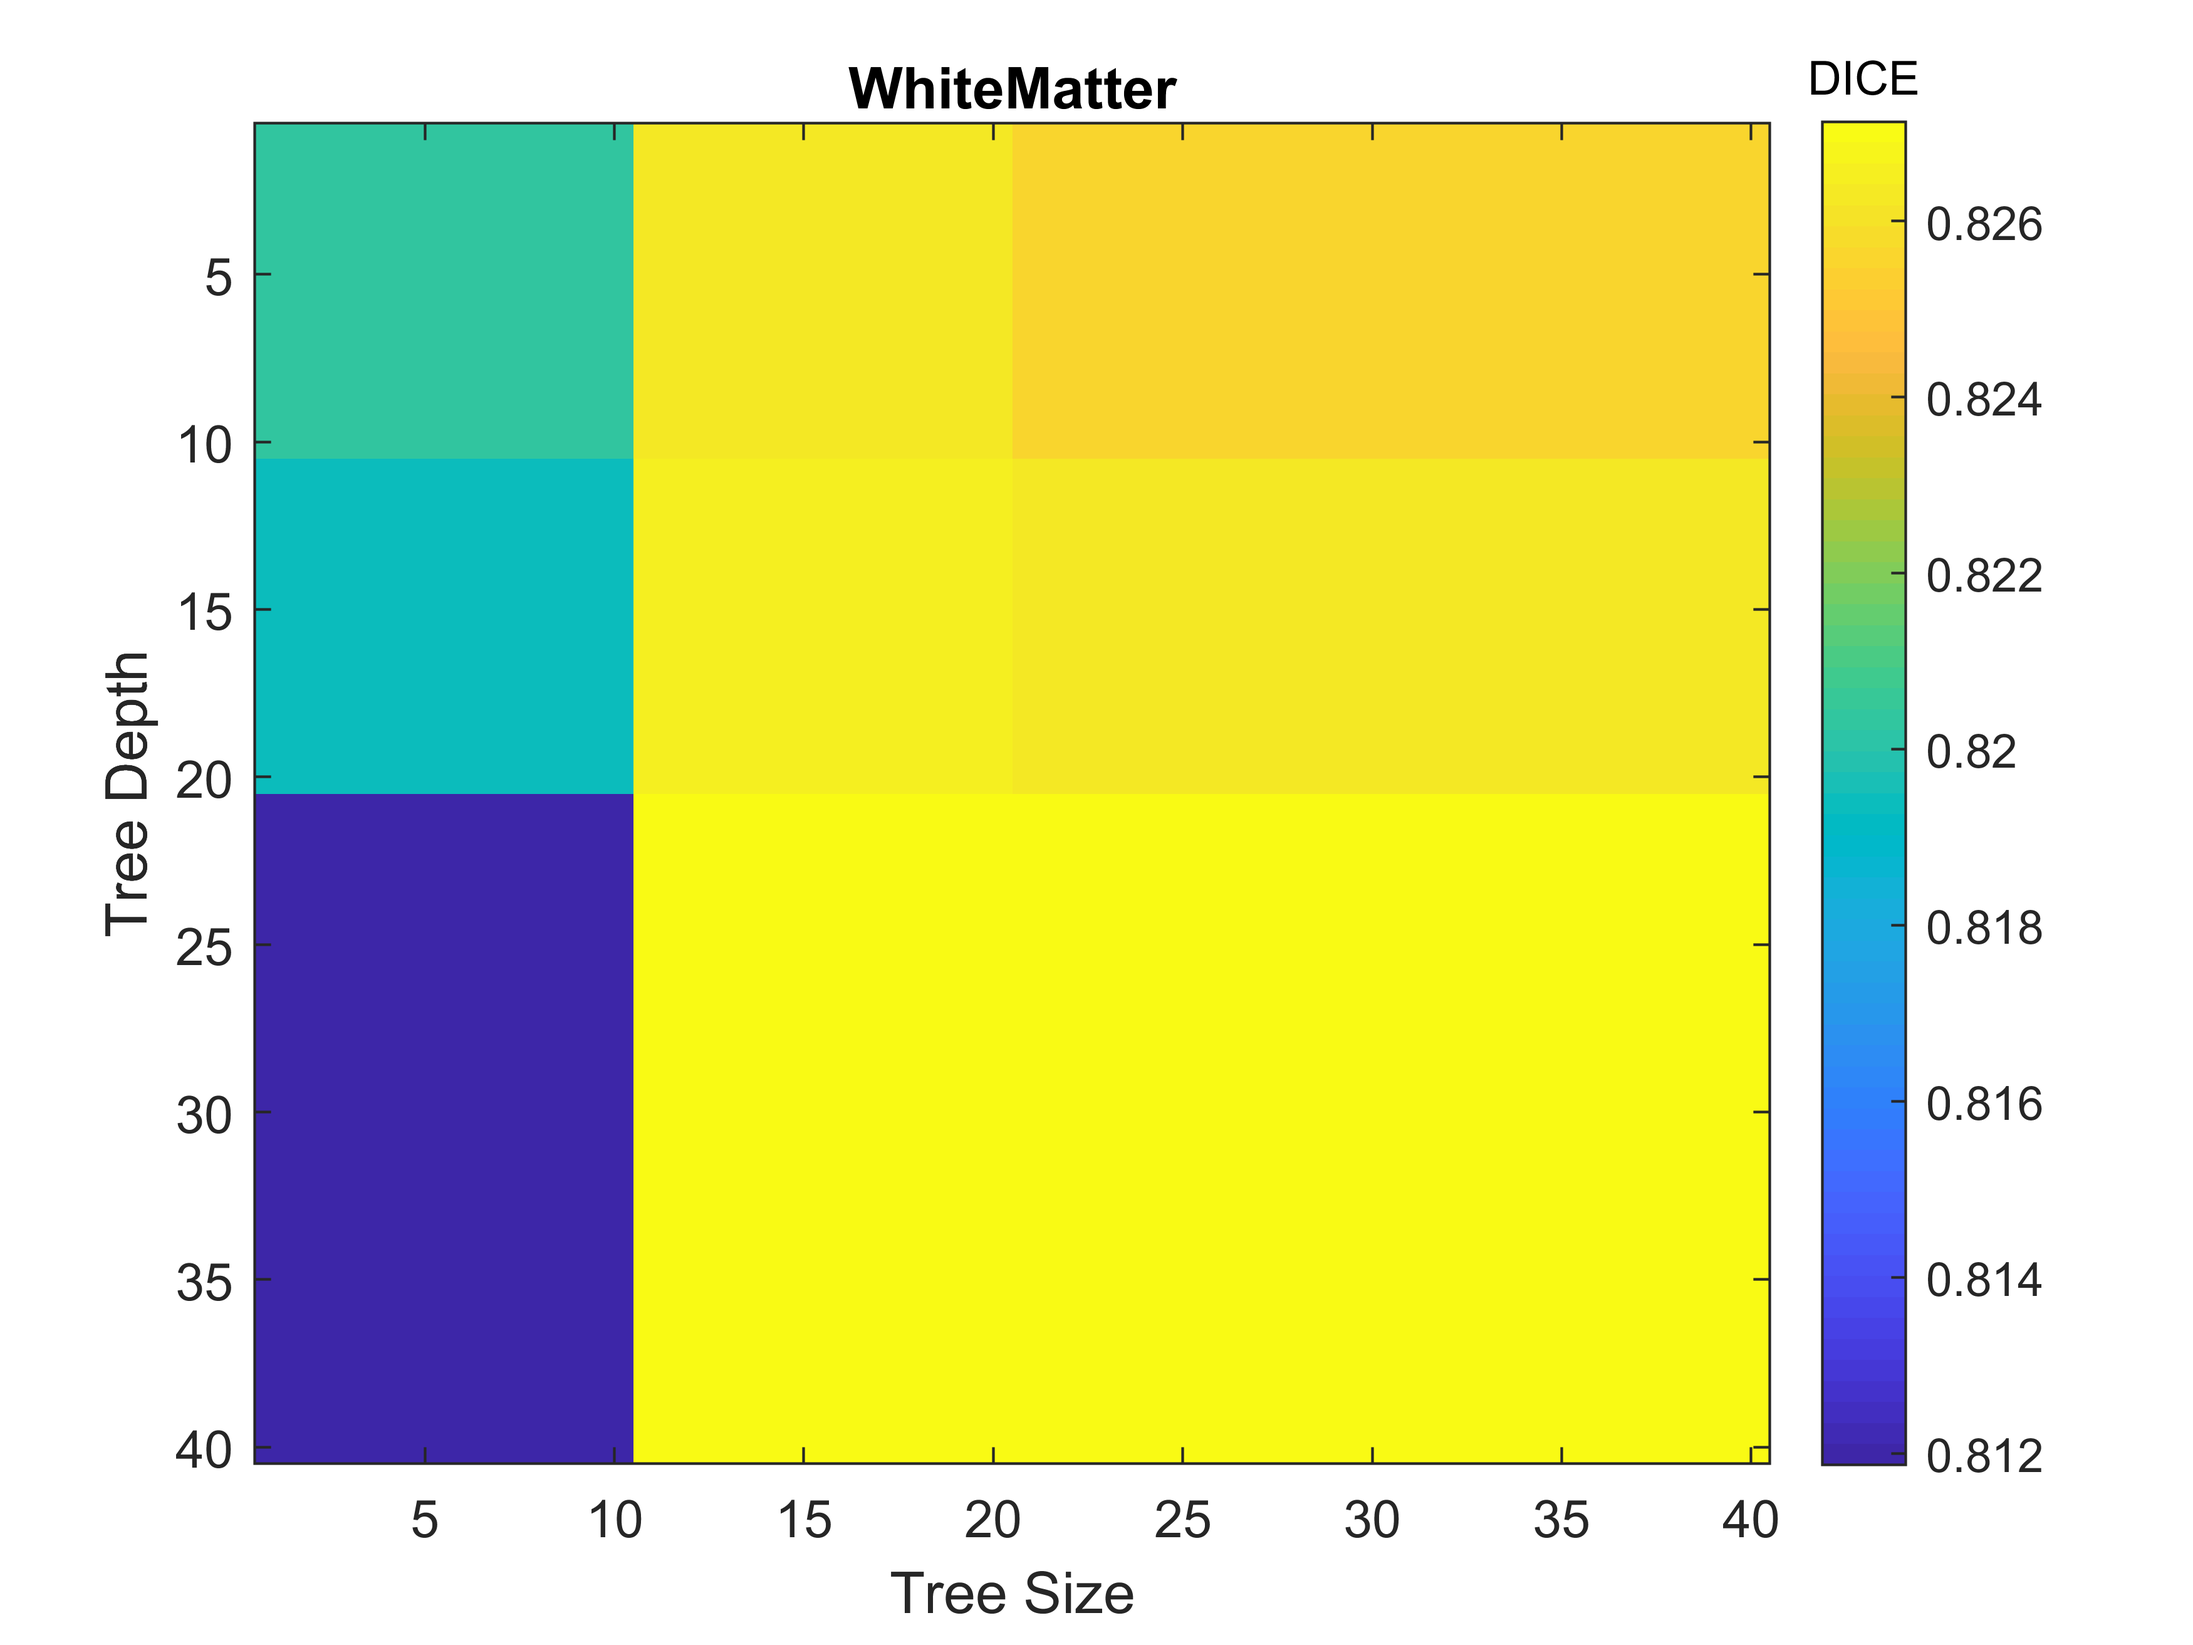
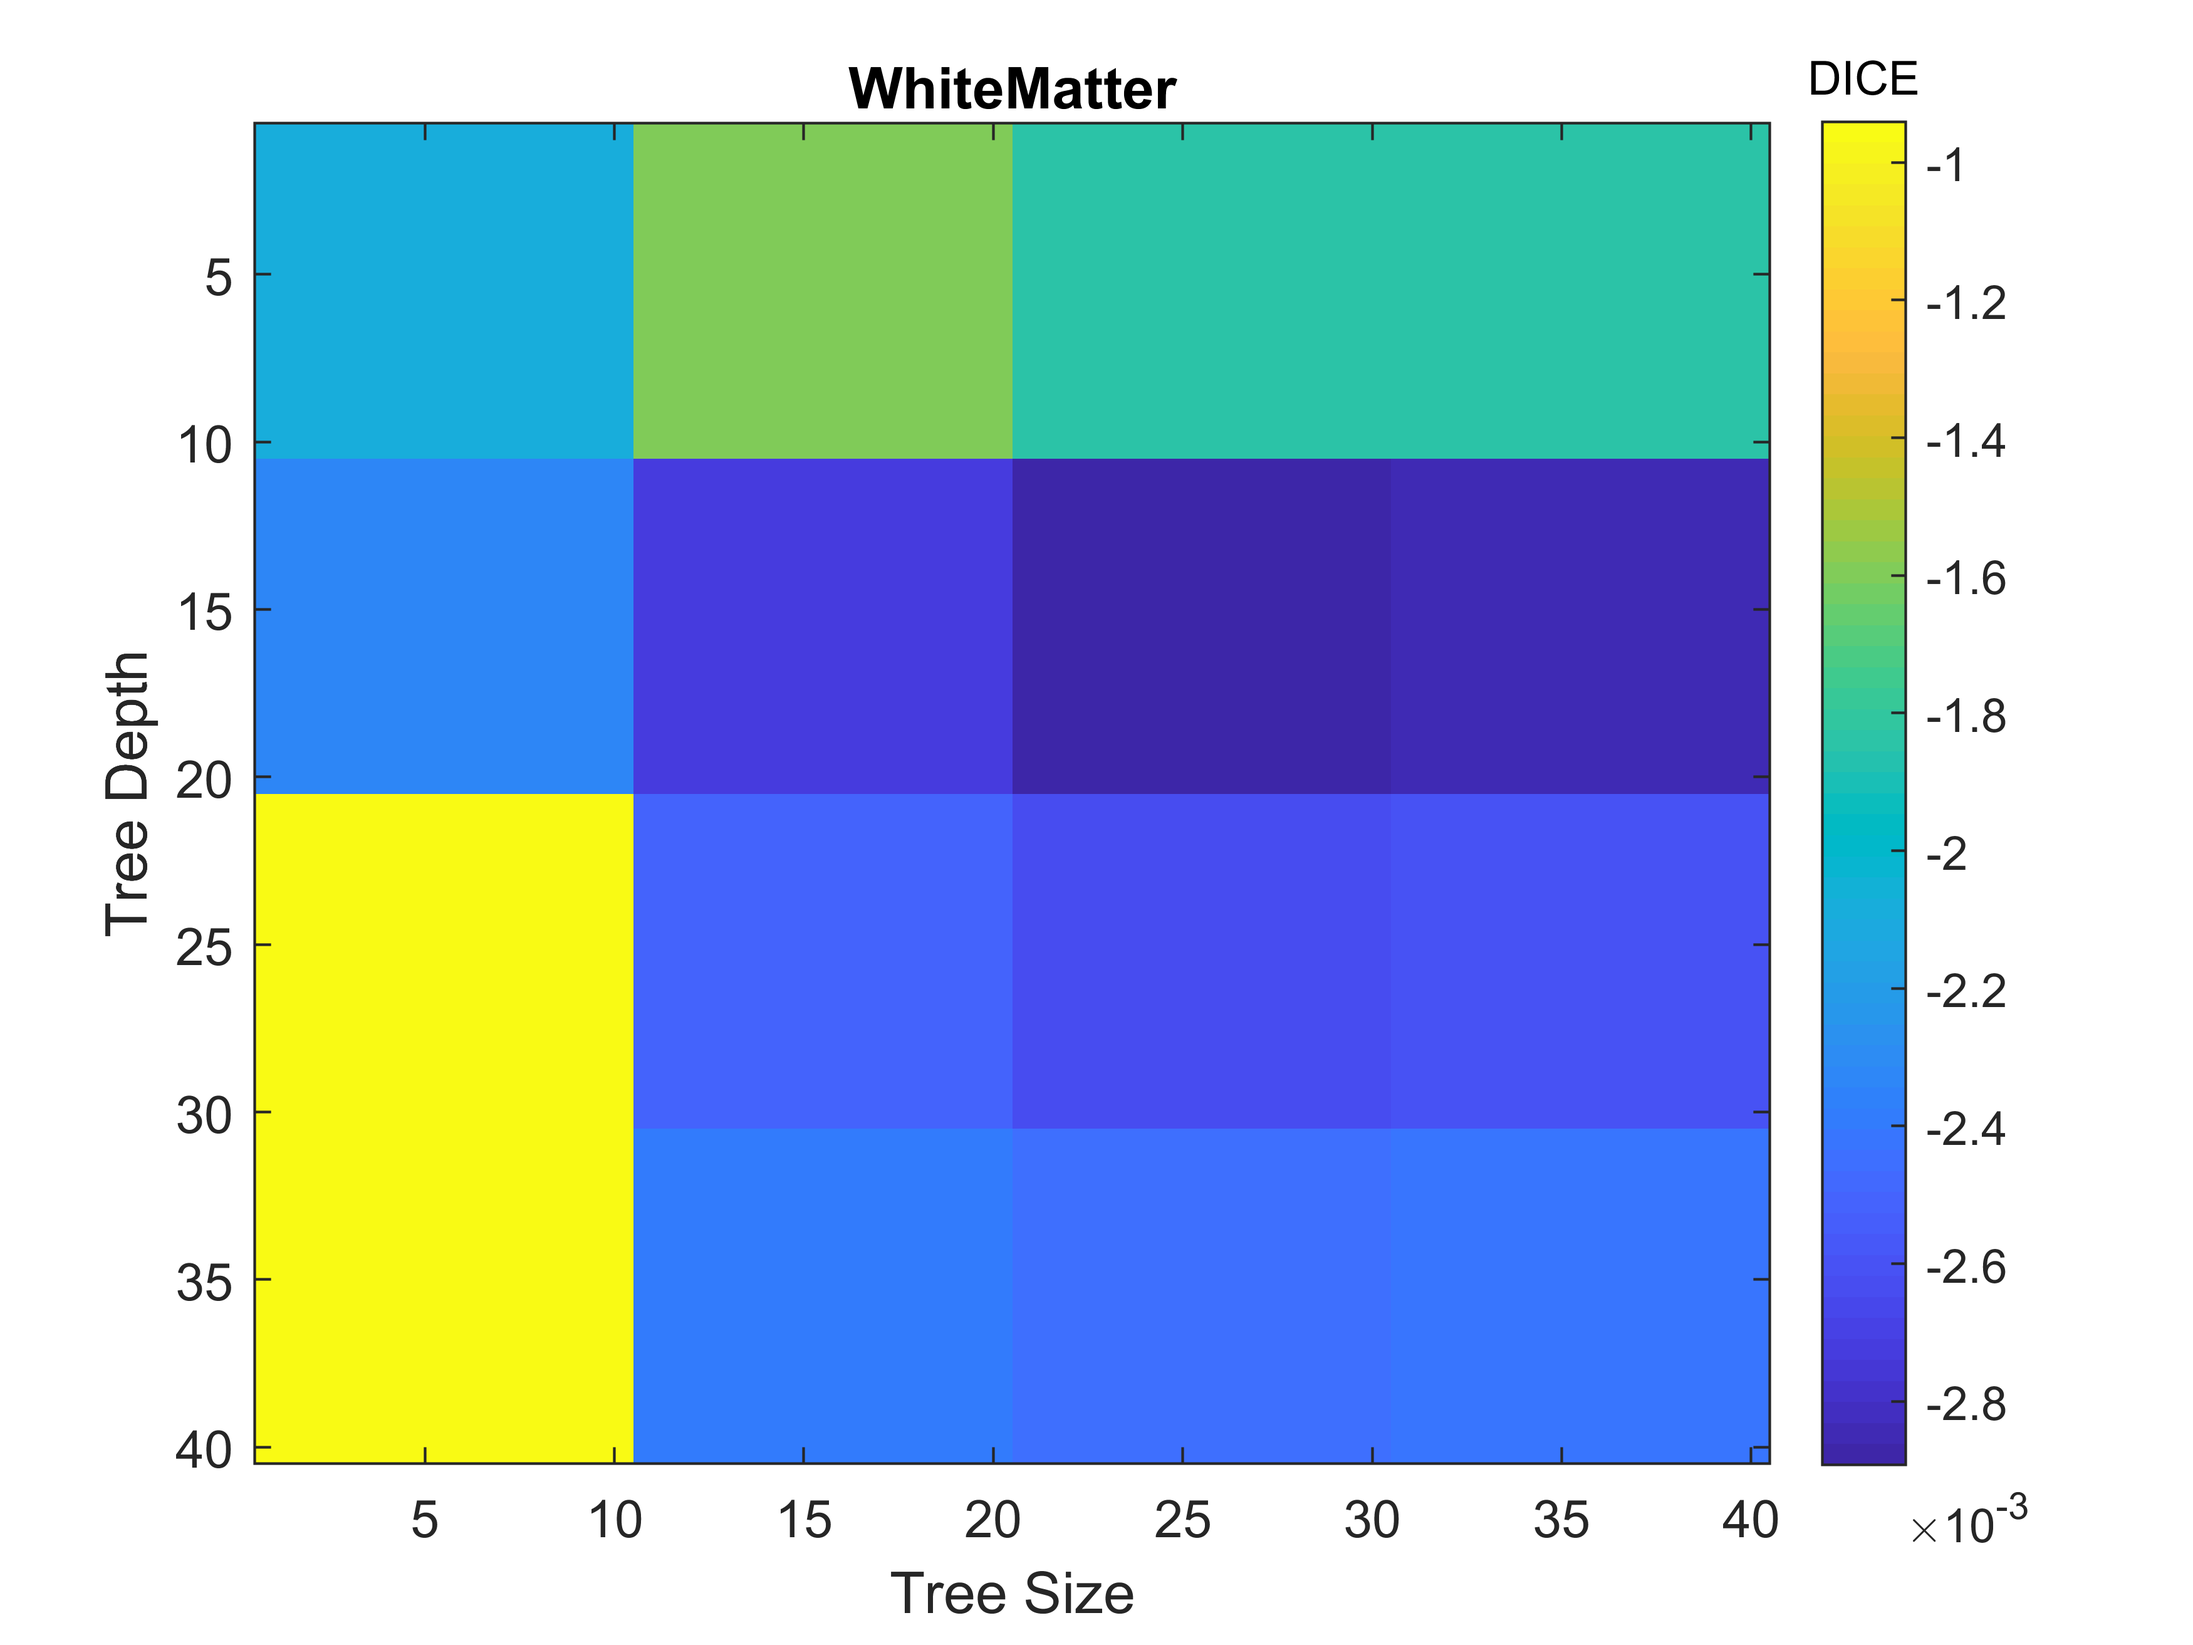
corrected heatmap result to diff from original to pp

diff --git a/matlab/showHeatmap.m b/matlab/showHeatmap.m
@@ -14,7 +14,7 @@ for lbl = 1:length(lbl_list)
         t_pp = t_pp(contains(t_pp.LABEL,lbl_list{lbl}),:);
         
         % Fill table content
-        diffHDRFDST(idx) = median(t_org.HDRFDST); %-median(t_pp.HDRFDST);
+        diffHDRFDST(idx) = median(t_org.HDRFDST)-median(t_pp.HDRFDST);
         csvSize{idx}  = csv.name(9:10);
         csvDepth{idx} = csv.name(12:13);
         
